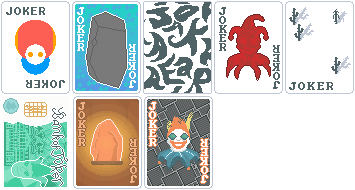
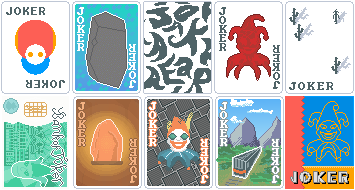
Restored v0.1b
I deleted it all by accident

Changed region(s): [[0.5887, 0.5, 1.0, 1.0]]

diff --git a/README.md b/README.md
@@ -25,3 +25,9 @@ At the end of the round, held cards without the gold enhancement give $2 for eac
 
 **Salt Lamp** - *Uncommon* - 
 Retrigger all played cards if a joker has been sold this round
+
+**Freight Train** - *Uncommon* - 
+When blind selected, add an ace and numbered card of your most numerous suit to deck
+
+**Joker Zone** - *Rare* - 
+For every 5 common jokers sold, create a negative common joker
